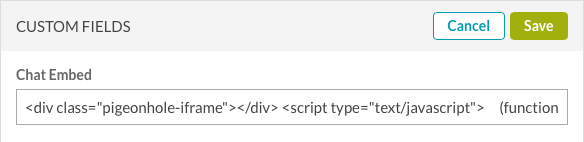
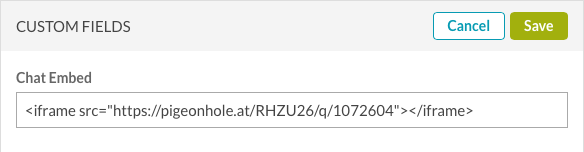
update pigeonhole doc

diff --git a/_site/experiences/virtual-event/integrating-pigeonhole-virtual-event-experience.html b/_site/experiences/virtual-event/integrating-pigeonhole-virtual-event-experience.html
@@ -567,7 +567,7 @@ function doGTranslate(lang_pair) {if(lang_pair.value)lang_pair=lang_pair.value;i
     <figure class="bcls-figure"><img class="bcls-image--no-border" alt="" src="/assets/images/experiences/virtual-event/phole-example.png" /></figure>
   </section>
   <section class="bcls-section">
-    <h2 id="pigeonhole">Creating a new Pigeonhole event</h2>
+    <h2 id="pigeonhole">Creating a new Pigeonhole event and session</h2>
     <p>You should create a new Pigeonhole for your live event and then add sessions for each video that will have Q&amp;A enabled.</p>
     <ol class="bcls-tasklist">
       <li>Log in to your Pigeonhole account.</li>
@@ -592,18 +592,25 @@ function doGTranslate(lang_pair) {if(lang_pair.value)lang_pair=lang_pair.value;i
       <li>Click <strong>Add Q&amp;A</strong>. Confirm the session was created.
         <figure class="bcls-figure"><img class="bcls-image--no-border" alt="" src="/assets/images/experiences/virtual-event/phole-new-session-created.png" /></figure>
       </li>
-      <li>Click <strong>More settings</strong> in the left navigation.</li>
-      <li>Click the <strong>Integrations</strong> tab at the top of the page.</li>
-      <li>Scroll down to the <strong>Others</strong> section.</li>
-      <li>Locate <strong>Brightcove Gallery Embed</strong> and click <strong>Integrate</strong>.</li>
-      <li><strong>(Optional)</strong> If your Gallery Experience will be secured using SSO, select <strong>Allow automatic attendee sign-in using SAML attributes</strong>. This will retrieve the user’s name and email address and automatically sign them in on Pigeonhole Live when the Pigeonhole Live widget loads. If this is not checked, users will appear as anonymous inside Pigeonhole. Click <strong>Save</strong>.</li>
-      <li>On the Brightcove Gallery Embed dialog, select your Q&amp;A session from the dropdown list.
-        <figure class="bcls-figure"><img class="bcls-image--no-border" alt="" src="/assets/images/experiences/virtual-event/phole-embed-code-dialog.png" /></figure>
-      </li>
-      <li>Click <strong>Get embed code</strong>.</li>
-      <li>Click on the embed code and copy it to the clipboard. This is the code that will be embedded on the Gallery experience. </li>
-      <li>Click <strong>Close</strong>.</li>
     </ol>
+  </section>
+  <section class="bcls-section">
+    <h2 id="embed-code">Generating the Pigeonhole embed code</h2>
+    <p>In order for a Pigeonhole to display next to a video, the following iframe embed code will be added to video using a Video Cloud custom field. The format of the code will be:</p>
+    <code>
+    <pre>&lt;iframe src=&quot;https://pigeonhole.at/<em>event passcode</em>/q/<em>session ID</em>&quot;&gt;&lt;/iframe&gt;</pre>
+    </code>
+    <p>To get the values for the <strong>event passcode</strong> and <strong>session ID</strong>, follow these steps.</p>
+    <ol class="bcls-tasklist">
+      <li>In Pigeonhole, click <strong>Agenda</strong> in the left navigation.</li>
+      <li>On the <strong>Sessions</strong> tab, click the dropdown arrow next to the event. The <strong>Session ID</strong> will be displayed.
+        <figure class="bcls-figure"><img class="bcls-image--no-border" alt="" src="/assets/images/experiences/live/phole-get-session-id.png" /></figure>
+      </li>
+      <li>To get the event passcode, locate the event name in the header. The event passcode is displayed below the event name.
+        <figure class="bcls-figure"><img class="bcls-image--no-border" alt="" src="/assets/images/experiences/virtual_event/phole-get-passcode.png" /></figure>
+      </li>
+    </ol>
+    <p>The above code with your event passcode and session ID will be added to the appropriate video.</p>
   </section>
   <section class="bcls-section">
     <h2 id="custom_field">Creating a custom field</h2>

diff --git a/experiences/virtual-event/integrating-pigeonhole-virtual-event-experience.html b/experiences/virtual-event/integrating-pigeonhole-virtual-event-experience.html
@@ -12,7 +12,7 @@ layout: staging
     <figure class="bcls-figure"><img class="bcls-image--no-border" alt="" src="/assets/images/experiences/virtual-event/phole-example.png" /></figure>
   </section>
   <section class="bcls-section">
-    <h2 id="pigeonhole">Creating a new Pigeonhole event</h2>
+    <h2 id="pigeonhole">Creating a new Pigeonhole event and session</h2>
     <p>You should create a new Pigeonhole for your live event and then add sessions for each video that will have Q&amp;A enabled.</p>
     <ol class="bcls-tasklist">
       <li>Log in to your Pigeonhole account.</li>
@@ -37,18 +37,25 @@ layout: staging
       <li>Click <strong>Add Q&amp;A</strong>. Confirm the session was created.
         <figure class="bcls-figure"><img class="bcls-image--no-border" alt="" src="/assets/images/experiences/virtual-event/phole-new-session-created.png" /></figure>
       </li>
-      <li>Click <strong>More settings</strong> in the left navigation.</li>
-      <li>Click the <strong>Integrations</strong> tab at the top of the page.</li>
-      <li>Scroll down to the <strong>Others</strong> section.</li>
-      <li>Locate <strong>Brightcove Gallery Embed</strong> and click <strong>Integrate</strong>.</li>
-      <li><strong>(Optional)</strong> If your Gallery Experience will be secured using SSO, select <strong>Allow automatic attendee sign-in using SAML attributes</strong>. This will retrieve the user’s name and email address and automatically sign them in on Pigeonhole Live when the Pigeonhole Live widget loads. If this is not checked, users will appear as anonymous inside Pigeonhole. Click <strong>Save</strong>.</li>
-      <li>On the Brightcove Gallery Embed dialog, select your Q&amp;A session from the dropdown list.
-        <figure class="bcls-figure"><img class="bcls-image--no-border" alt="" src="/assets/images/experiences/virtual-event/phole-embed-code-dialog.png" /></figure>
-      </li>
-      <li>Click <strong>Get embed code</strong>.</li>
-      <li>Click on the embed code and copy it to the clipboard. This is the code that will be embedded on the Gallery experience. </li>
-      <li>Click <strong>Close</strong>.</li>
     </ol>
+  </section>
+  <section class="bcls-section">
+    <h2 id="embed-code">Generating the Pigeonhole embed code</h2>
+    <p>In order for a Pigeonhole to display next to a video, the following iframe embed code will be added to video using a Video Cloud custom field. The format of the code will be:</p>
+    <code>
+    <pre>&lt;iframe src=&quot;https://pigeonhole.at/<em>event passcode</em>/q/<em>session ID</em>&quot;&gt;&lt;/iframe&gt;</pre>
+    </code>
+    <p>To get the values for the <strong>event passcode</strong> and <strong>session ID</strong>, follow these steps.</p>
+    <ol class="bcls-tasklist">
+      <li>In Pigeonhole, click <strong>Agenda</strong> in the left navigation.</li>
+      <li>On the <strong>Sessions</strong> tab, click the dropdown arrow next to the event. The <strong>Session ID</strong> will be displayed.
+        <figure class="bcls-figure"><img class="bcls-image--no-border" alt="" src="/assets/images/experiences/live/phole-get-session-id.png" /></figure>
+      </li>
+      <li>To get the event passcode, locate the event name in the header. The event passcode is displayed below the event name.
+        <figure class="bcls-figure"><img class="bcls-image--no-border" alt="" src="/assets/images/experiences/virtual_event/phole-get-passcode.png" /></figure>
+      </li>
+    </ol>
+    <p>The above code with your event passcode and session ID will be added to the appropriate video.</p>
   </section>
   <section class="bcls-section">
     <h2 id="custom_field">Creating a custom field</h2>
